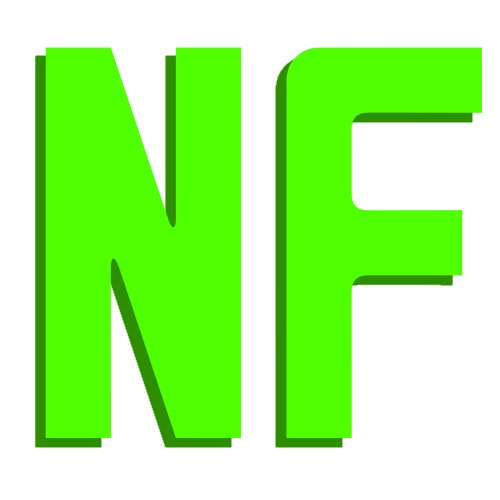
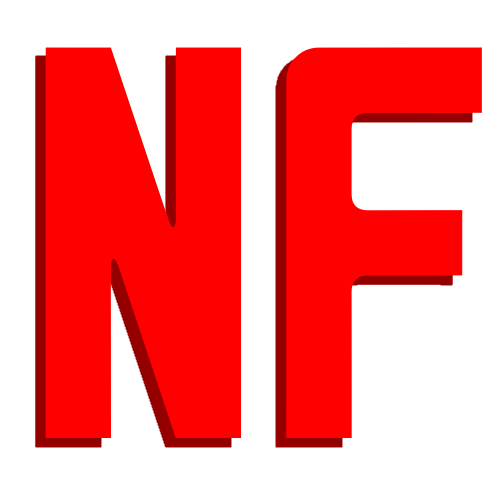
Changed styles

diff --git a/blog/index.html b/blog/index.html
@@ -22,14 +22,28 @@
 <body>
   <menu id="menu">
     <a class="pointer" href="/">
-      <img alt="Initials NF" src="/assets/nf4.png" style="width: 13vw; filter: hue-rotate(251deg);" />
+      <img alt="Initials NF" src="/assets/nf4.png" style="width: 13vw;" />
     </a>
     <nav id="nav">
       <a class="link" href="/blog">Back to Articles</a>
       <a class="link" href="/">Return Home</a>
     </nav>
     <footer>
-      <p>© Nicholas Ficara</p>
+      <div style="display: flex; justify-content: space-around; flex-wrap: wrap;">
+        <a class="icon-link" rel="noreferrer nofollow" target="_blank" href="mailto:nick@nicholasficara.dev">
+          <img class="icon-small invert" alt="envelope" src="/assets/envelope.svg" />
+        </a>
+        <a class="icon-link" rel="noreferrer nofollow" target="_blank" href="https://github.com/Green-Robot-Dev-Studios">
+          <img class="icon-small invert" alt="github logo" src="/assets/github.svg" />
+        </a>
+        <a class="icon-link" rel="noreferrer nofollow" target="_blank" href="https://www.linkedin.com/in/nicholasficara/">
+          <img class="icon-small invert" alt="linkedin logo" src="/assets/linkedin-in-brands.svg" />
+        </a>
+        <a class="icon-link" rel="noreferrer nofollow" target="_blank" href="/assets/Nicholas_Ficara_CV_2021_07_03.pdf">
+          <img class="icon-small invert" alt="cv logo" src="/assets/file-alt.svg" />
+        </a>
+      </div>
+      <p style="white-space: nowrap;">© Nicholas Ficara</p>
     </footer>
   </menu>
 

diff --git a/blog/posts/arch-linux-for-school/index.html b/blog/posts/arch-linux-for-school/index.html
@@ -22,14 +22,28 @@
 <body>
   <menu id="menu">
     <a class="pointer" href="/">
-      <img alt="Initials NF" src="/assets/nf4.png" style="width: 13vw; filter: hue-rotate(251deg);" />
+      <img alt="Initials NF" src="/assets/nf4.png" style="width: 13vw;" />
     </a>
     <nav id="nav">
       <a class="link" href="/blog">Back to Articles</a>
       <a class="link" href="/">Return Home</a>
     </nav>
     <footer>
-      <p>© Nicholas Ficara</p>
+      <div style="display: flex; justify-content: space-around; flex-wrap: wrap;">
+        <a class="icon-link" rel="noreferrer nofollow" target="_blank" href="mailto:nick@nicholasficara.dev">
+          <img class="icon-small invert" alt="envelope" src="/assets/envelope.svg" />
+        </a>
+        <a class="icon-link" rel="noreferrer nofollow" target="_blank" href="https://github.com/Green-Robot-Dev-Studios">
+          <img class="icon-small invert" alt="github logo" src="/assets/github.svg" />
+        </a>
+        <a class="icon-link" rel="noreferrer nofollow" target="_blank" href="https://www.linkedin.com/in/nicholasficara/">
+          <img class="icon-small invert" alt="linkedin logo" src="/assets/linkedin-in-brands.svg" />
+        </a>
+        <a class="icon-link" rel="noreferrer nofollow" target="_blank" href="/assets/Nicholas_Ficara_CV_2021_07_03.pdf">
+          <img class="icon-small invert" alt="cv logo" src="/assets/file-alt.svg" />
+        </a>
+      </div>
+      <p style="white-space: nowrap;">© Nicholas Ficara</p>
     </footer>
   </menu>
 

diff --git a/blog/posts/are-hackathons-worth-it/index.html b/blog/posts/are-hackathons-worth-it/index.html
@@ -22,14 +22,28 @@
 <body>
   <menu id="menu">
     <a class="pointer" href="/">
-      <img alt="Initials NF" src="/assets/nf4.png" style="width: 13vw; filter: hue-rotate(251deg);" />
+      <img alt="Initials NF" src="/assets/nf4.png" style="width: 13vw;" />
     </a>
     <nav id="nav">
       <a class="link" href="/blog">Back to Articles</a>
       <a class="link" href="/">Return Home</a>
     </nav>
     <footer>
-      <p>© Nicholas Ficara</p>
+      <div style="display: flex; justify-content: space-around; flex-wrap: wrap;">
+        <a class="icon-link" rel="noreferrer nofollow" target="_blank" href="mailto:nick@nicholasficara.dev">
+          <img class="icon-small invert" alt="envelope" src="/assets/envelope.svg" />
+        </a>
+        <a class="icon-link" rel="noreferrer nofollow" target="_blank" href="https://github.com/Green-Robot-Dev-Studios">
+          <img class="icon-small invert" alt="github logo" src="/assets/github.svg" />
+        </a>
+        <a class="icon-link" rel="noreferrer nofollow" target="_blank" href="https://www.linkedin.com/in/nicholasficara/">
+          <img class="icon-small invert" alt="linkedin logo" src="/assets/linkedin-in-brands.svg" />
+        </a>
+        <a class="icon-link" rel="noreferrer nofollow" target="_blank" href="/assets/Nicholas_Ficara_CV_2021_07_03.pdf">
+          <img class="icon-small invert" alt="cv logo" src="/assets/file-alt.svg" />
+        </a>
+      </div>
+      <p style="white-space: nowrap;">© Nicholas Ficara</p>
     </footer>
   </menu>
 

diff --git a/blog/posts/desmos-pic/index.html b/blog/posts/desmos-pic/index.html
@@ -22,14 +22,28 @@
 <body>
   <menu id="menu">
     <a class="pointer" href="/">
-      <img alt="Initials NF" src="/assets/nf4.png" style="width: 13vw; filter: hue-rotate(251deg);" />
+      <img alt="Initials NF" src="/assets/nf4.png" style="width: 13vw;" />
     </a>
     <nav id="nav">
       <a class="link" href="/blog">Back to Articles</a>
       <a class="link" href="/">Return Home</a>
     </nav>
     <footer>
-      <p>© Nicholas Ficara</p>
+      <div style="display: flex; justify-content: space-around; flex-wrap: wrap;">
+        <a class="icon-link" rel="noreferrer nofollow" target="_blank" href="mailto:nick@nicholasficara.dev">
+          <img class="icon-small invert" alt="envelope" src="/assets/envelope.svg" />
+        </a>
+        <a class="icon-link" rel="noreferrer nofollow" target="_blank" href="https://github.com/Green-Robot-Dev-Studios">
+          <img class="icon-small invert" alt="github logo" src="/assets/github.svg" />
+        </a>
+        <a class="icon-link" rel="noreferrer nofollow" target="_blank" href="https://www.linkedin.com/in/nicholasficara/">
+          <img class="icon-small invert" alt="linkedin logo" src="/assets/linkedin-in-brands.svg" />
+        </a>
+        <a class="icon-link" rel="noreferrer nofollow" target="_blank" href="/assets/Nicholas_Ficara_CV_2021_07_03.pdf">
+          <img class="icon-small invert" alt="cv logo" src="/assets/file-alt.svg" />
+        </a>
+      </div>
+      <p style="white-space: nowrap;">© Nicholas Ficara</p>
     </footer>
   </menu>
 

diff --git a/blog/posts/docs-as-a-cms/index.html b/blog/posts/docs-as-a-cms/index.html
@@ -22,14 +22,28 @@
 <body>
   <menu id="menu">
     <a class="pointer" href="/">
-      <img alt="Initials NF" src="/assets/nf4.png" style="width: 13vw; filter: hue-rotate(251deg);" />
+      <img alt="Initials NF" src="/assets/nf4.png" style="width: 13vw;" />
     </a>
     <nav id="nav">
       <a class="link" href="/blog">Back to Articles</a>
       <a class="link" href="/">Return Home</a>
     </nav>
     <footer>
-      <p>© Nicholas Ficara</p>
+      <div style="display: flex; justify-content: space-around; flex-wrap: wrap;">
+        <a class="icon-link" rel="noreferrer nofollow" target="_blank" href="mailto:nick@nicholasficara.dev">
+          <img class="icon-small invert" alt="envelope" src="/assets/envelope.svg" />
+        </a>
+        <a class="icon-link" rel="noreferrer nofollow" target="_blank" href="https://github.com/Green-Robot-Dev-Studios">
+          <img class="icon-small invert" alt="github logo" src="/assets/github.svg" />
+        </a>
+        <a class="icon-link" rel="noreferrer nofollow" target="_blank" href="https://www.linkedin.com/in/nicholasficara/">
+          <img class="icon-small invert" alt="linkedin logo" src="/assets/linkedin-in-brands.svg" />
+        </a>
+        <a class="icon-link" rel="noreferrer nofollow" target="_blank" href="/assets/Nicholas_Ficara_CV_2021_07_03.pdf">
+          <img class="icon-small invert" alt="cv logo" src="/assets/file-alt.svg" />
+        </a>
+      </div>
+      <p style="white-space: nowrap;">© Nicholas Ficara</p>
     </footer>
   </menu>
 

diff --git a/blog/posts/experiences-with-svelte/index.html b/blog/posts/experiences-with-svelte/index.html
@@ -22,14 +22,28 @@
 <body>
   <menu id="menu">
     <a class="pointer" href="/">
-      <img alt="Initials NF" src="/assets/nf4.png" style="width: 13vw; filter: hue-rotate(251deg);" />
+      <img alt="Initials NF" src="/assets/nf4.png" style="width: 13vw;" />
     </a>
     <nav id="nav">
       <a class="link" href="/blog">Back to Articles</a>
       <a class="link" href="/">Return Home</a>
     </nav>
     <footer>
-      <p>© Nicholas Ficara</p>
+      <div style="display: flex; justify-content: space-around; flex-wrap: wrap;">
+        <a class="icon-link" rel="noreferrer nofollow" target="_blank" href="mailto:nick@nicholasficara.dev">
+          <img class="icon-small invert" alt="envelope" src="/assets/envelope.svg" />
+        </a>
+        <a class="icon-link" rel="noreferrer nofollow" target="_blank" href="https://github.com/Green-Robot-Dev-Studios">
+          <img class="icon-small invert" alt="github logo" src="/assets/github.svg" />
+        </a>
+        <a class="icon-link" rel="noreferrer nofollow" target="_blank" href="https://www.linkedin.com/in/nicholasficara/">
+          <img class="icon-small invert" alt="linkedin logo" src="/assets/linkedin-in-brands.svg" />
+        </a>
+        <a class="icon-link" rel="noreferrer nofollow" target="_blank" href="/assets/Nicholas_Ficara_CV_2021_07_03.pdf">
+          <img class="icon-small invert" alt="cv logo" src="/assets/file-alt.svg" />
+        </a>
+      </div>
+      <p style="white-space: nowrap;">© Nicholas Ficara</p>
     </footer>
   </menu>
 

diff --git a/blog/posts/fully-automatic-youtube-video-generation/index.html b/blog/posts/fully-automatic-youtube-video-generation/index.html
@@ -22,14 +22,28 @@
 <body>
   <menu id="menu">
     <a class="pointer" href="/">
-      <img alt="Initials NF" src="/assets/nf4.png" style="width: 13vw; filter: hue-rotate(251deg);" />
+      <img alt="Initials NF" src="/assets/nf4.png" style="width: 13vw;" />
     </a>
     <nav id="nav">
       <a class="link" href="/blog">Back to Articles</a>
       <a class="link" href="/">Return Home</a>
     </nav>
     <footer>
-      <p>© Nicholas Ficara</p>
+      <div style="display: flex; justify-content: space-around; flex-wrap: wrap;">
+        <a class="icon-link" rel="noreferrer nofollow" target="_blank" href="mailto:nick@nicholasficara.dev">
+          <img class="icon-small invert" alt="envelope" src="/assets/envelope.svg" />
+        </a>
+        <a class="icon-link" rel="noreferrer nofollow" target="_blank" href="https://github.com/Green-Robot-Dev-Studios">
+          <img class="icon-small invert" alt="github logo" src="/assets/github.svg" />
+        </a>
+        <a class="icon-link" rel="noreferrer nofollow" target="_blank" href="https://www.linkedin.com/in/nicholasficara/">
+          <img class="icon-small invert" alt="linkedin logo" src="/assets/linkedin-in-brands.svg" />
+        </a>
+        <a class="icon-link" rel="noreferrer nofollow" target="_blank" href="/assets/Nicholas_Ficara_CV_2021_07_03.pdf">
+          <img class="icon-small invert" alt="cv logo" src="/assets/file-alt.svg" />
+        </a>
+      </div>
+      <p style="white-space: nowrap;">© Nicholas Ficara</p>
     </footer>
   </menu>
 

diff --git a/blog/posts/gameboy-emulator/index.html b/blog/posts/gameboy-emulator/index.html
@@ -22,14 +22,28 @@
 <body>
   <menu id="menu">
     <a class="pointer" href="/">
-      <img alt="Initials NF" src="/assets/nf4.png" style="width: 13vw; filter: hue-rotate(251deg);" />
+      <img alt="Initials NF" src="/assets/nf4.png" style="width: 13vw;" />
     </a>
     <nav id="nav">
       <a class="link" href="/blog">Back to Articles</a>
       <a class="link" href="/">Return Home</a>
     </nav>
     <footer>
-      <p>© Nicholas Ficara</p>
+      <div style="display: flex; justify-content: space-around; flex-wrap: wrap;">
+        <a class="icon-link" rel="noreferrer nofollow" target="_blank" href="mailto:nick@nicholasficara.dev">
+          <img class="icon-small invert" alt="envelope" src="/assets/envelope.svg" />
+        </a>
+        <a class="icon-link" rel="noreferrer nofollow" target="_blank" href="https://github.com/Green-Robot-Dev-Studios">
+          <img class="icon-small invert" alt="github logo" src="/assets/github.svg" />
+        </a>
+        <a class="icon-link" rel="noreferrer nofollow" target="_blank" href="https://www.linkedin.com/in/nicholasficara/">
+          <img class="icon-small invert" alt="linkedin logo" src="/assets/linkedin-in-brands.svg" />
+        </a>
+        <a class="icon-link" rel="noreferrer nofollow" target="_blank" href="/assets/Nicholas_Ficara_CV_2021_07_03.pdf">
+          <img class="icon-small invert" alt="cv logo" src="/assets/file-alt.svg" />
+        </a>
+      </div>
+      <p style="white-space: nowrap;">© Nicholas Ficara</p>
     </footer>
   </menu>
 

diff --git a/blog/posts/mandelbg/index.html b/blog/posts/mandelbg/index.html
@@ -22,14 +22,28 @@
 <body>
   <menu id="menu">
     <a class="pointer" href="/">
-      <img alt="Initials NF" src="/assets/nf4.png" style="width: 13vw; filter: hue-rotate(251deg);" />
+      <img alt="Initials NF" src="/assets/nf4.png" style="width: 13vw;" />
     </a>
     <nav id="nav">
       <a class="link" href="/blog">Back to Articles</a>
       <a class="link" href="/">Return Home</a>
     </nav>
     <footer>
-      <p>© Nicholas Ficara</p>
+      <div style="display: flex; justify-content: space-around; flex-wrap: wrap;">
+        <a class="icon-link" rel="noreferrer nofollow" target="_blank" href="mailto:nick@nicholasficara.dev">
+          <img class="icon-small invert" alt="envelope" src="/assets/envelope.svg" />
+        </a>
+        <a class="icon-link" rel="noreferrer nofollow" target="_blank" href="https://github.com/Green-Robot-Dev-Studios">
+          <img class="icon-small invert" alt="github logo" src="/assets/github.svg" />
+        </a>
+        <a class="icon-link" rel="noreferrer nofollow" target="_blank" href="https://www.linkedin.com/in/nicholasficara/">
+          <img class="icon-small invert" alt="linkedin logo" src="/assets/linkedin-in-brands.svg" />
+        </a>
+        <a class="icon-link" rel="noreferrer nofollow" target="_blank" href="/assets/Nicholas_Ficara_CV_2021_07_03.pdf">
+          <img class="icon-small invert" alt="cv logo" src="/assets/file-alt.svg" />
+        </a>
+      </div>
+      <p style="white-space: nowrap;">© Nicholas Ficara</p>
     </footer>
   </menu>
 

diff --git a/blog/posts/minecraft-pixels/index.html b/blog/posts/minecraft-pixels/index.html
@@ -22,14 +22,28 @@
 <body>
   <menu id="menu">
     <a class="pointer" href="/">
-      <img alt="Initials NF" src="/assets/nf4.png" style="width: 13vw; filter: hue-rotate(251deg);" />
+      <img alt="Initials NF" src="/assets/nf4.png" style="width: 13vw;" />
     </a>
     <nav id="nav">
       <a class="link" href="/blog">Back to Articles</a>
       <a class="link" href="/">Return Home</a>
     </nav>
     <footer>
-      <p>© Nicholas Ficara</p>
+      <div style="display: flex; justify-content: space-around; flex-wrap: wrap;">
+        <a class="icon-link" rel="noreferrer nofollow" target="_blank" href="mailto:nick@nicholasficara.dev">
+          <img class="icon-small invert" alt="envelope" src="/assets/envelope.svg" />
+        </a>
+        <a class="icon-link" rel="noreferrer nofollow" target="_blank" href="https://github.com/Green-Robot-Dev-Studios">
+          <img class="icon-small invert" alt="github logo" src="/assets/github.svg" />
+        </a>
+        <a class="icon-link" rel="noreferrer nofollow" target="_blank" href="https://www.linkedin.com/in/nicholasficara/">
+          <img class="icon-small invert" alt="linkedin logo" src="/assets/linkedin-in-brands.svg" />
+        </a>
+        <a class="icon-link" rel="noreferrer nofollow" target="_blank" href="/assets/Nicholas_Ficara_CV_2021_07_03.pdf">
+          <img class="icon-small invert" alt="cv logo" src="/assets/file-alt.svg" />
+        </a>
+      </div>
+      <p style="white-space: nowrap;">© Nicholas Ficara</p>
     </footer>
   </menu>
 

diff --git a/blog/posts/p5js-as-a-learning-tool/index.html b/blog/posts/p5js-as-a-learning-tool/index.html
@@ -22,14 +22,28 @@
 <body>
   <menu id="menu">
     <a class="pointer" href="/">
-      <img alt="Initials NF" src="/assets/nf4.png" style="width: 13vw; filter: hue-rotate(251deg);" />
+      <img alt="Initials NF" src="/assets/nf4.png" style="width: 13vw;" />
     </a>
     <nav id="nav">
       <a class="link" href="/blog">Back to Articles</a>
       <a class="link" href="/">Return Home</a>
     </nav>
     <footer>
-      <p>© Nicholas Ficara</p>
+      <div style="display: flex; justify-content: space-around; flex-wrap: wrap;">
+        <a class="icon-link" rel="noreferrer nofollow" target="_blank" href="mailto:nick@nicholasficara.dev">
+          <img class="icon-small invert" alt="envelope" src="/assets/envelope.svg" />
+        </a>
+        <a class="icon-link" rel="noreferrer nofollow" target="_blank" href="https://github.com/Green-Robot-Dev-Studios">
+          <img class="icon-small invert" alt="github logo" src="/assets/github.svg" />
+        </a>
+        <a class="icon-link" rel="noreferrer nofollow" target="_blank" href="https://www.linkedin.com/in/nicholasficara/">
+          <img class="icon-small invert" alt="linkedin logo" src="/assets/linkedin-in-brands.svg" />
+        </a>
+        <a class="icon-link" rel="noreferrer nofollow" target="_blank" href="/assets/Nicholas_Ficara_CV_2021_07_03.pdf">
+          <img class="icon-small invert" alt="cv logo" src="/assets/file-alt.svg" />
+        </a>
+      </div>
+      <p style="white-space: nowrap;">© Nicholas Ficara</p>
     </footer>
   </menu>
 

diff --git a/blog/posts/scroll-n-stroll/index.html b/blog/posts/scroll-n-stroll/index.html
@@ -22,14 +22,28 @@
 <body>
   <menu id="menu">
     <a class="pointer" href="/">
-      <img alt="Initials NF" src="/assets/nf4.png" style="width: 13vw; filter: hue-rotate(251deg);" />
+      <img alt="Initials NF" src="/assets/nf4.png" style="width: 13vw;" />
     </a>
     <nav id="nav">
       <a class="link" href="/blog">Back to Articles</a>
       <a class="link" href="/">Return Home</a>
     </nav>
     <footer>
-      <p>© Nicholas Ficara</p>
+      <div style="display: flex; justify-content: space-around; flex-wrap: wrap;">
+        <a class="icon-link" rel="noreferrer nofollow" target="_blank" href="mailto:nick@nicholasficara.dev">
+          <img class="icon-small invert" alt="envelope" src="/assets/envelope.svg" />
+        </a>
+        <a class="icon-link" rel="noreferrer nofollow" target="_blank" href="https://github.com/Green-Robot-Dev-Studios">
+          <img class="icon-small invert" alt="github logo" src="/assets/github.svg" />
+        </a>
+        <a class="icon-link" rel="noreferrer nofollow" target="_blank" href="https://www.linkedin.com/in/nicholasficara/">
+          <img class="icon-small invert" alt="linkedin logo" src="/assets/linkedin-in-brands.svg" />
+        </a>
+        <a class="icon-link" rel="noreferrer nofollow" target="_blank" href="/assets/Nicholas_Ficara_CV_2021_07_03.pdf">
+          <img class="icon-small invert" alt="cv logo" src="/assets/file-alt.svg" />
+        </a>
+      </div>
+      <p style="white-space: nowrap;">© Nicholas Ficara</p>
     </footer>
   </menu>
 
